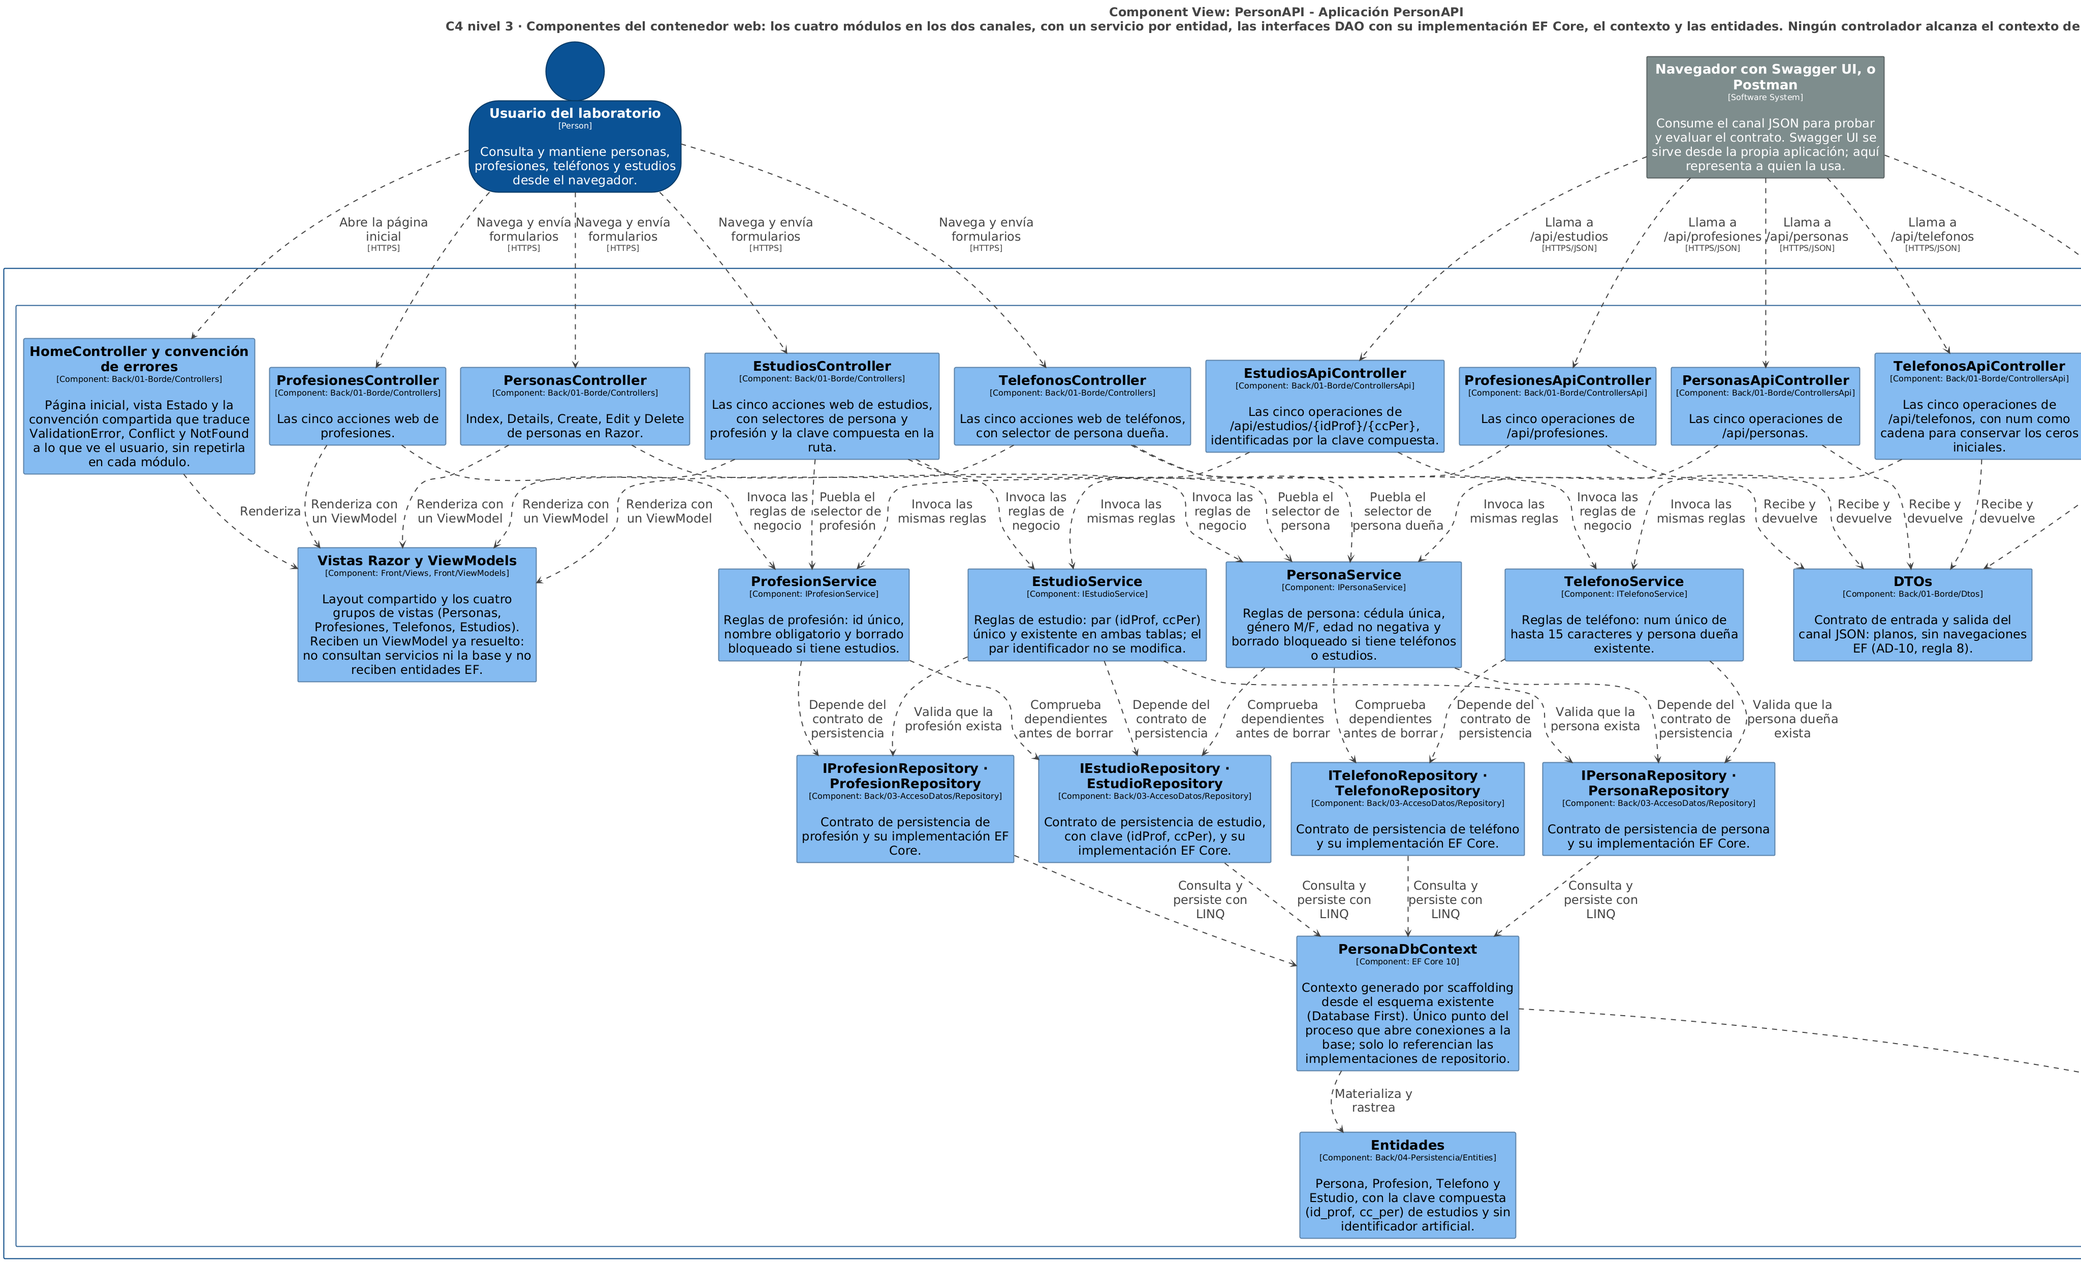
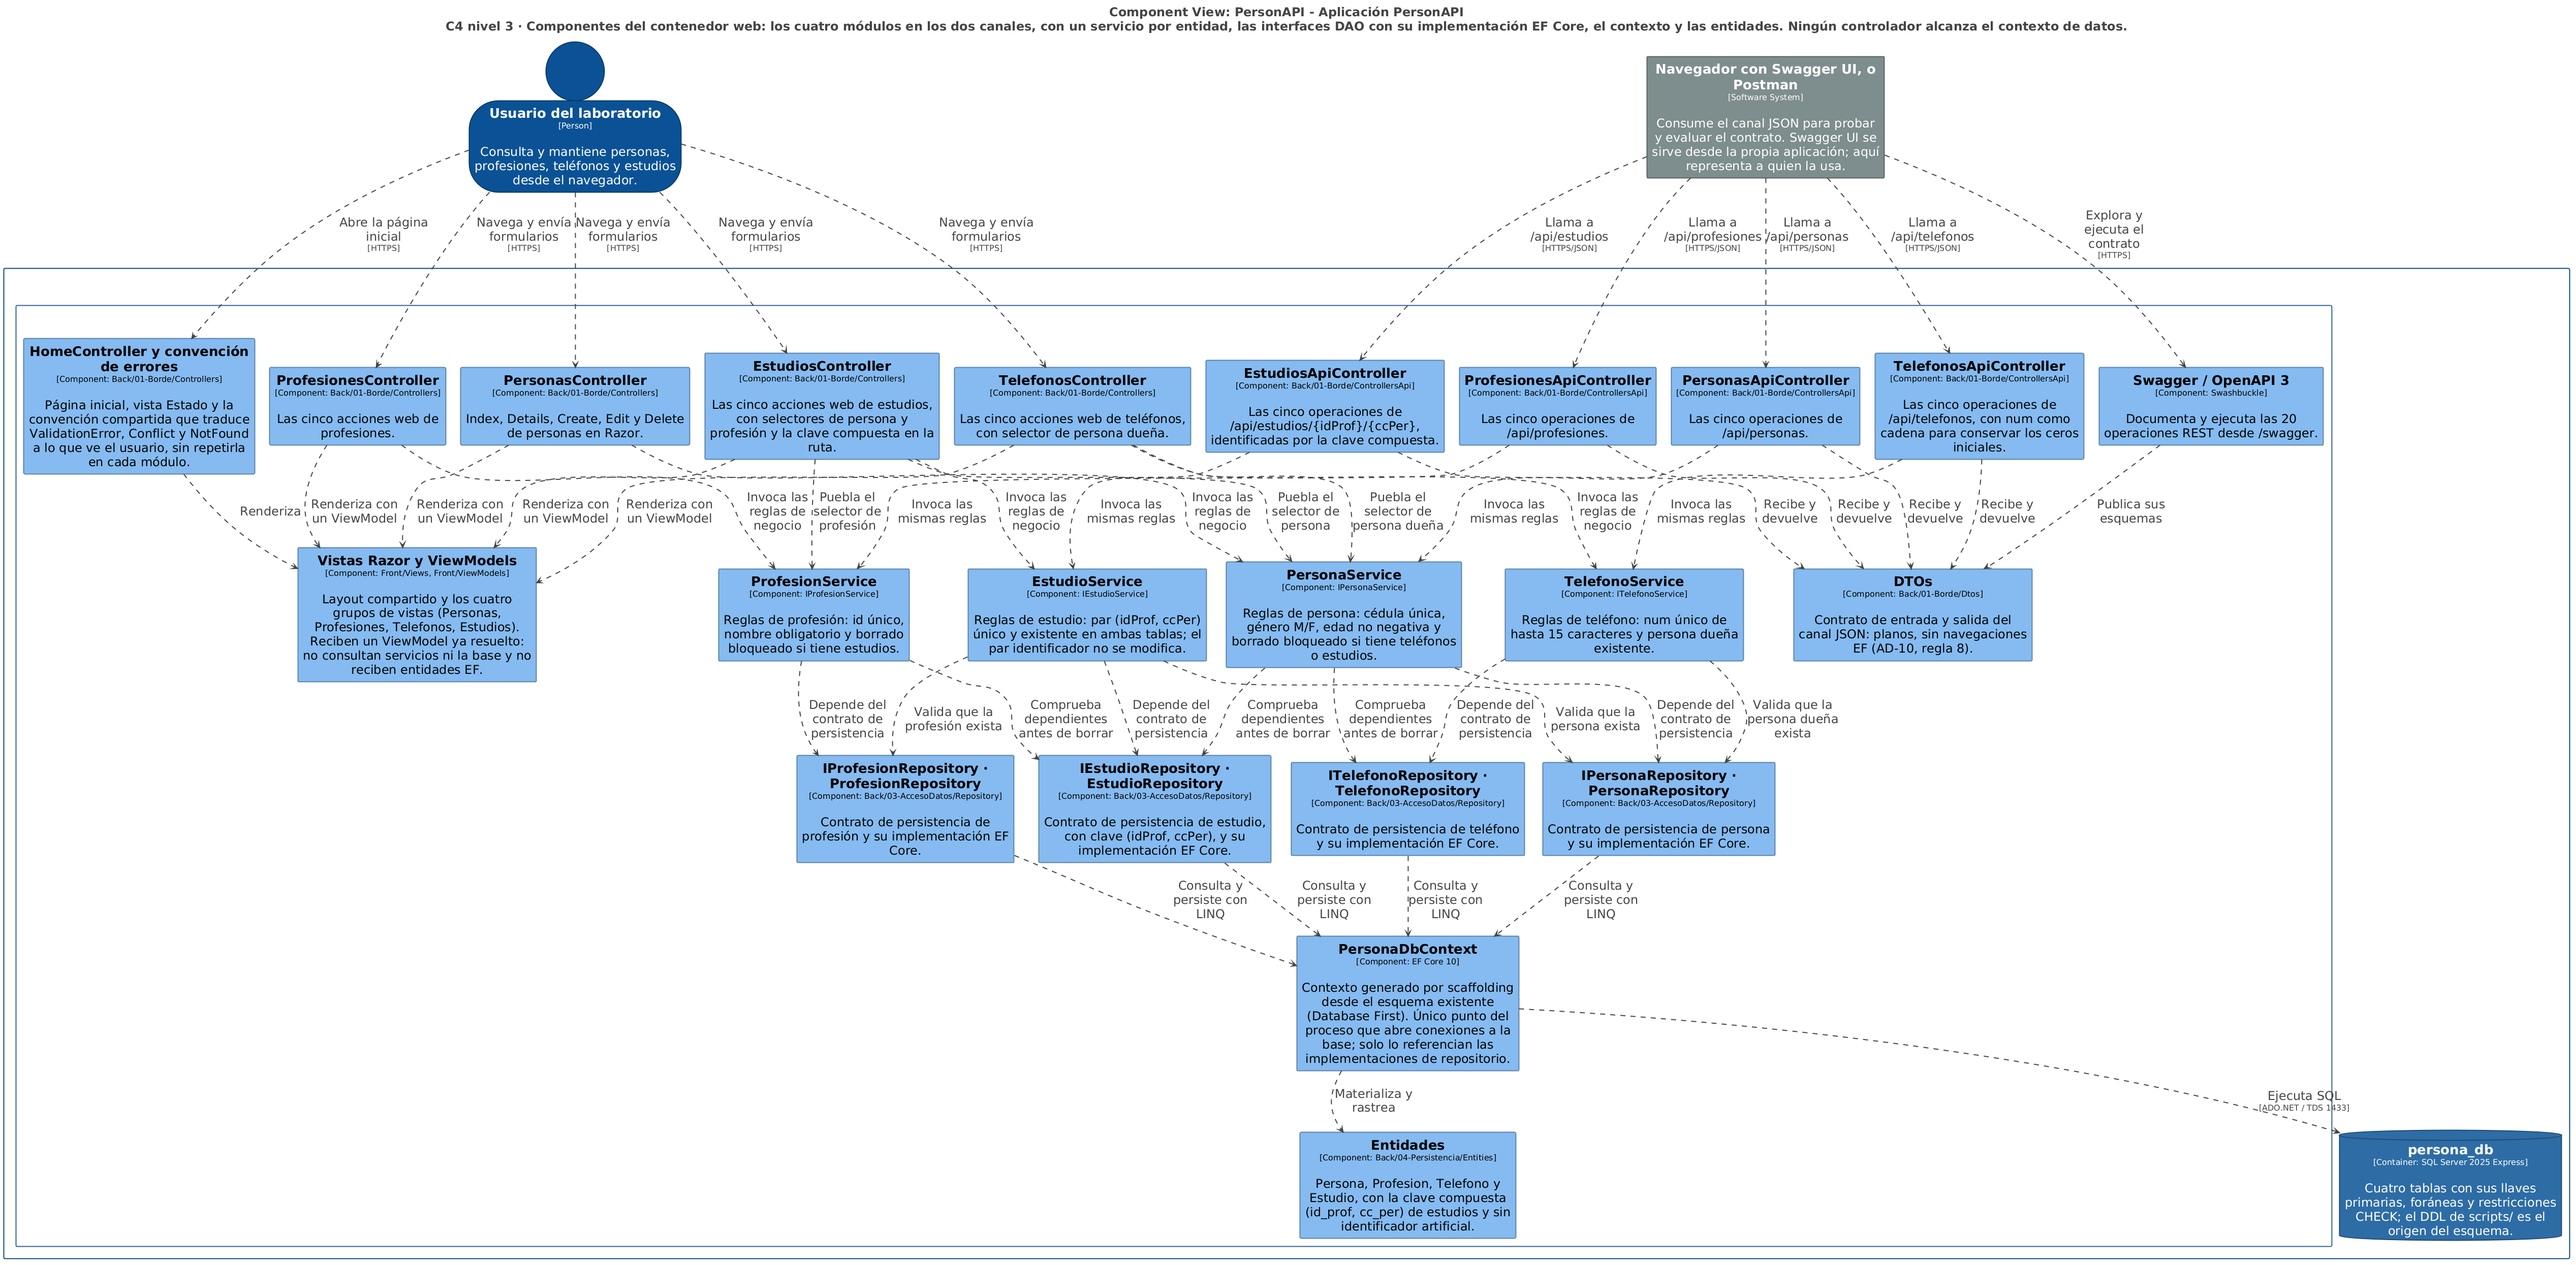
docs(arquitectura): exporta el nivel 3 sin recorte [LAB-16]
PlantUML recorta a 4096 px por defecto y la vista de componentes mide unos
5070, así que la imagen publicada perdía Swagger y persona_db sin emitir
ningún aviso. Se vuelve a exportar con PLANTUML_LIMIT_SIZE=8192 y el README
deja el comando con esa variable y la advertencia de comprobarlo al
regenerar.

diff --git a/docs/wiki/02-arquitectura/diagramas/README.md b/docs/wiki/02-arquitectura/diagramas/README.md
@@ -56,8 +56,10 @@ docker run --rm -v "$PWD/docs/wiki/02-arquitectura/diagramas:/w" \
   structurizr/structurizr export -workspace /w/personapi-c4.dsl \
   -format plantuml/structurizr -output /w/puml
 
-# 3. Convertir a PNG
-docker run --rm --user root \
+# 3. Convertir a PNG. PLANTUML_LIMIT_SIZE es obligatorio: por defecto PlantUML
+#    recorta a 4096 px y la vista de componentes mide mas, asi que sin el se
+#    pierden Swagger y persona_db sin ningun aviso.
+docker run --rm --user root -e PLANTUML_LIMIT_SIZE=8192 \
   -v "$PWD/docs/wiki/02-arquitectura/diagramas/puml:/data" \
   -v "$PWD/docs/informe/diagramas:/out" -w /data plantuml/plantuml \
   -tpng -charset UTF-8 -o /out \
@@ -99,7 +101,9 @@ incluye:
 | Componentes | [`c4-c3-componentes.png`](../../../informe/diagramas/c4-c3-componentes.png) |
 | Despliegue | [`c4-despliegue.png`](../../../informe/diagramas/c4-despliegue.png) |
 
-Se regeneran desde el `.dsl` cada vez que el modelo cambie; no se editan a mano.
+Se regeneran desde el `.dsl` cada vez que el modelo cambie; no se editan a mano. Al
+regenerarlas, **comprobar que la imagen de componentes no quede recortada**: mide unos
+5000 px de ancho y el límite por defecto de PlantUML la corta en silencio.
 
 ## Lo que el modelo garantiza
 
